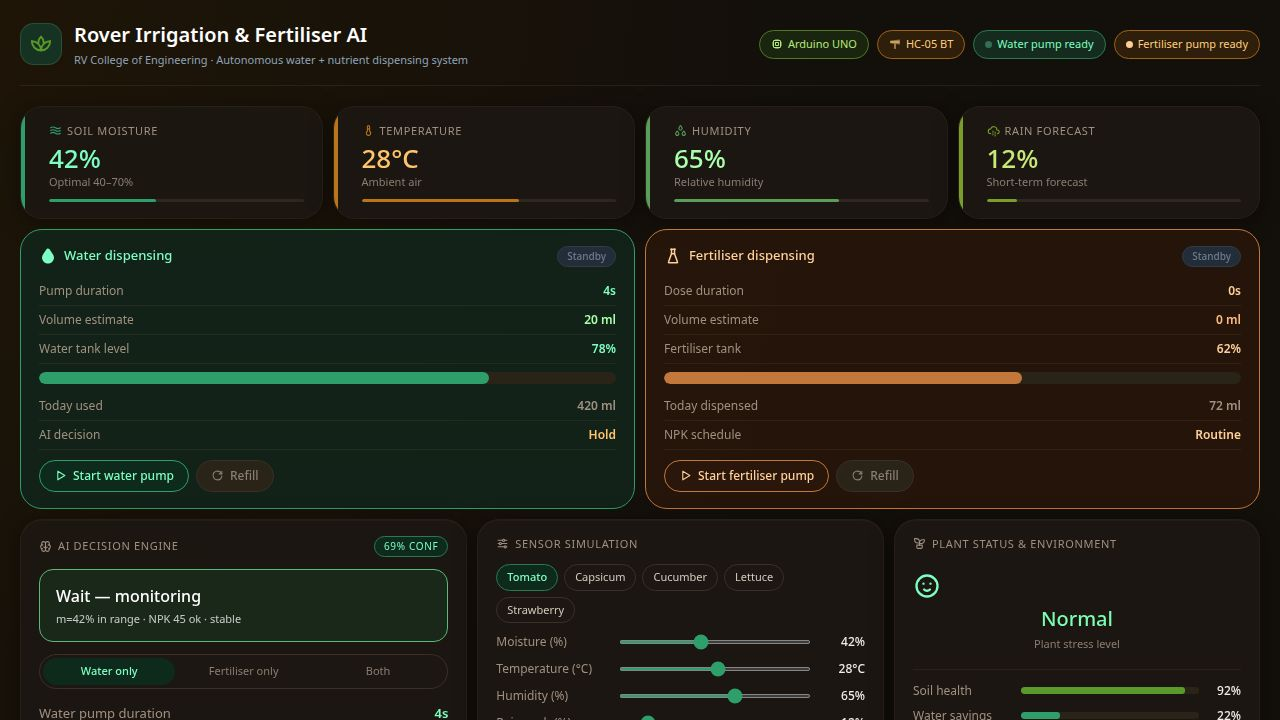
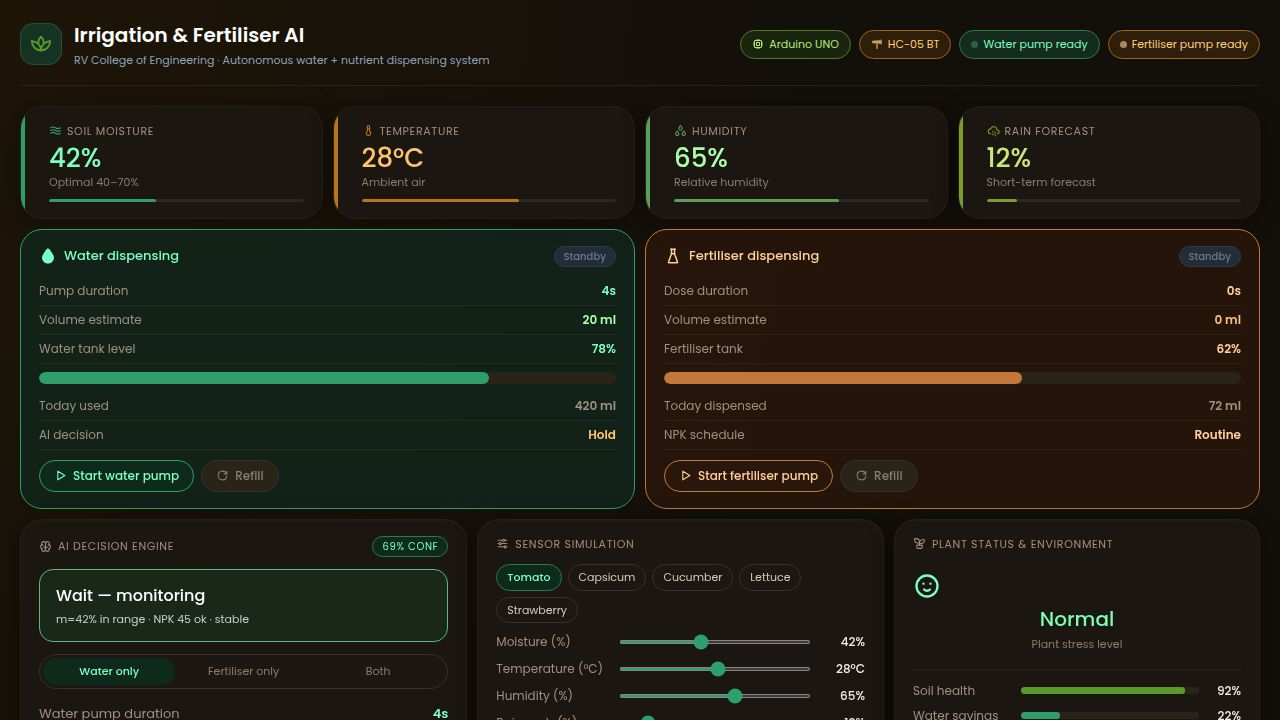
Update dashboard title to be more concise
Modify the main dashboard title from "Rover Irrigation & Fertiliser AI" to "Irrigation & Fertiliser AI".

Replit-Commit-Author: Agent
Replit-Commit-Session-Id: eaef16a1-c917-4090-8343-c61434f57ce0
Replit-Commit-Checkpoint-Type: full_checkpoint
Replit-Commit-Event-Id: 75d1fcb2-529f-485d-9875-97ae00245334
Replit-Commit-Screenshot-Url: https://storage.googleapis.com/screenshot-production-us-central1/20c1882a-8575-4f40-afea-d152842df8f6/eaef16a1-c917-4090-8343-c61434f57ce0/BqCGxhx
Replit-Helium-Checkpoint-Created: true

diff --git a/artifacts/rover-dashboard/src/pages/Dashboard.tsx b/artifacts/rover-dashboard/src/pages/Dashboard.tsx
@@ -580,7 +580,7 @@ export default function Dashboard() {
             <IconPlant2 size={22} color="#5A9A2A" />
           </div>
           <div>
-            <div style={{ fontSize: 20, fontWeight: 600, color: "#fff" }}>Rover Irrigation & Fertiliser AI</div>
+            <div style={{ fontSize: 20, fontWeight: 600, color: "#fff" }}>Irrigation & Fertiliser AI</div>
             <div style={{ fontSize: 11, color: "#8FA3B8", marginTop: 2 }}>RV College of Engineering · Autonomous water + nutrient dispensing system</div>
           </div>
         </div>